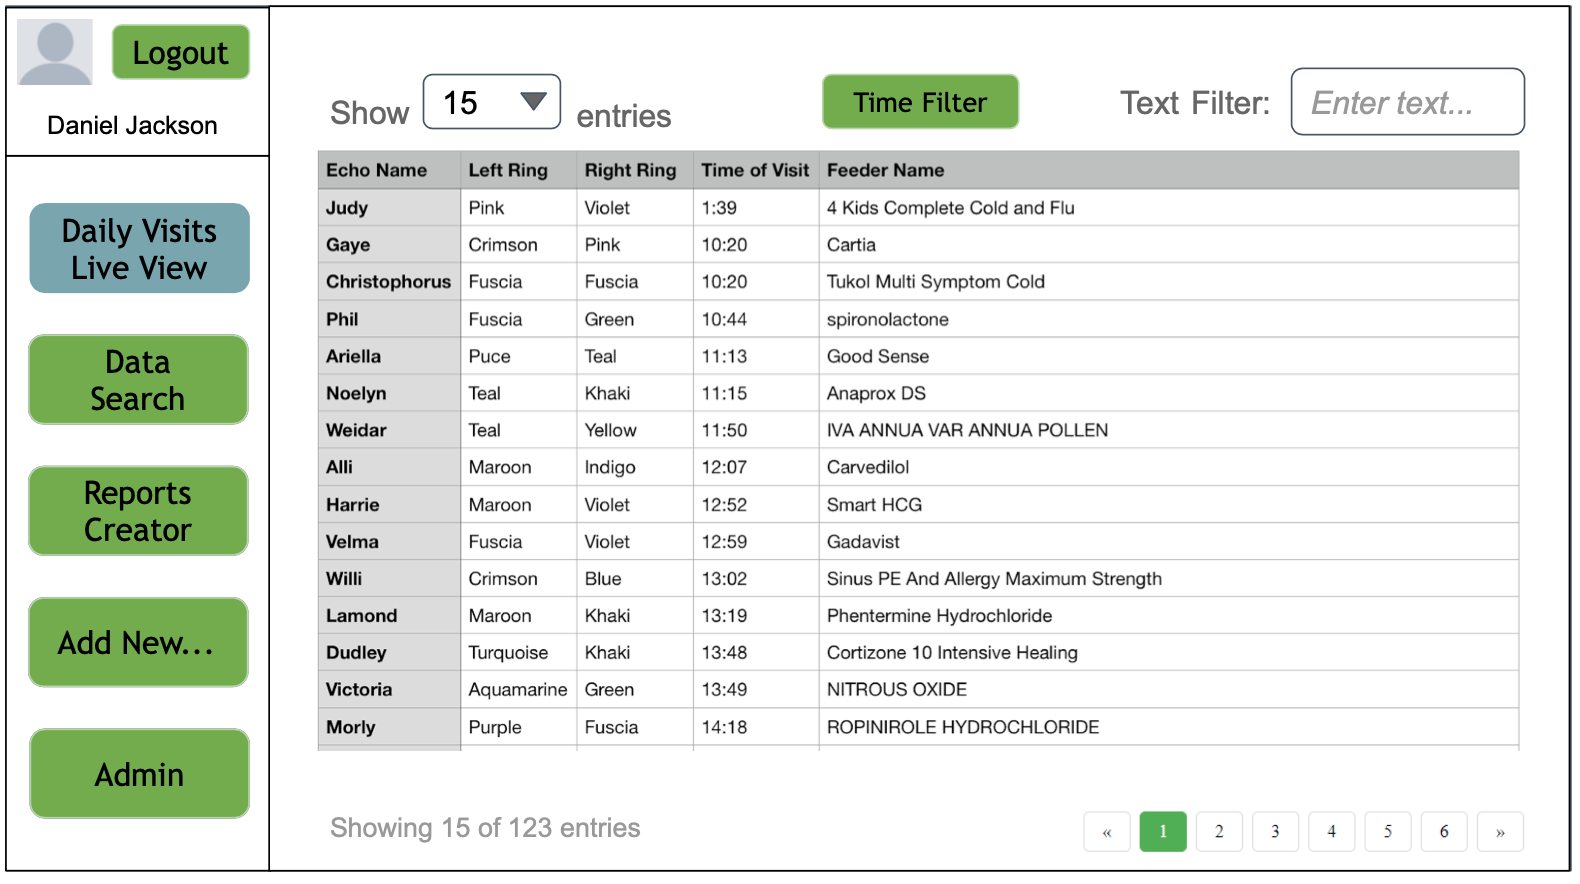
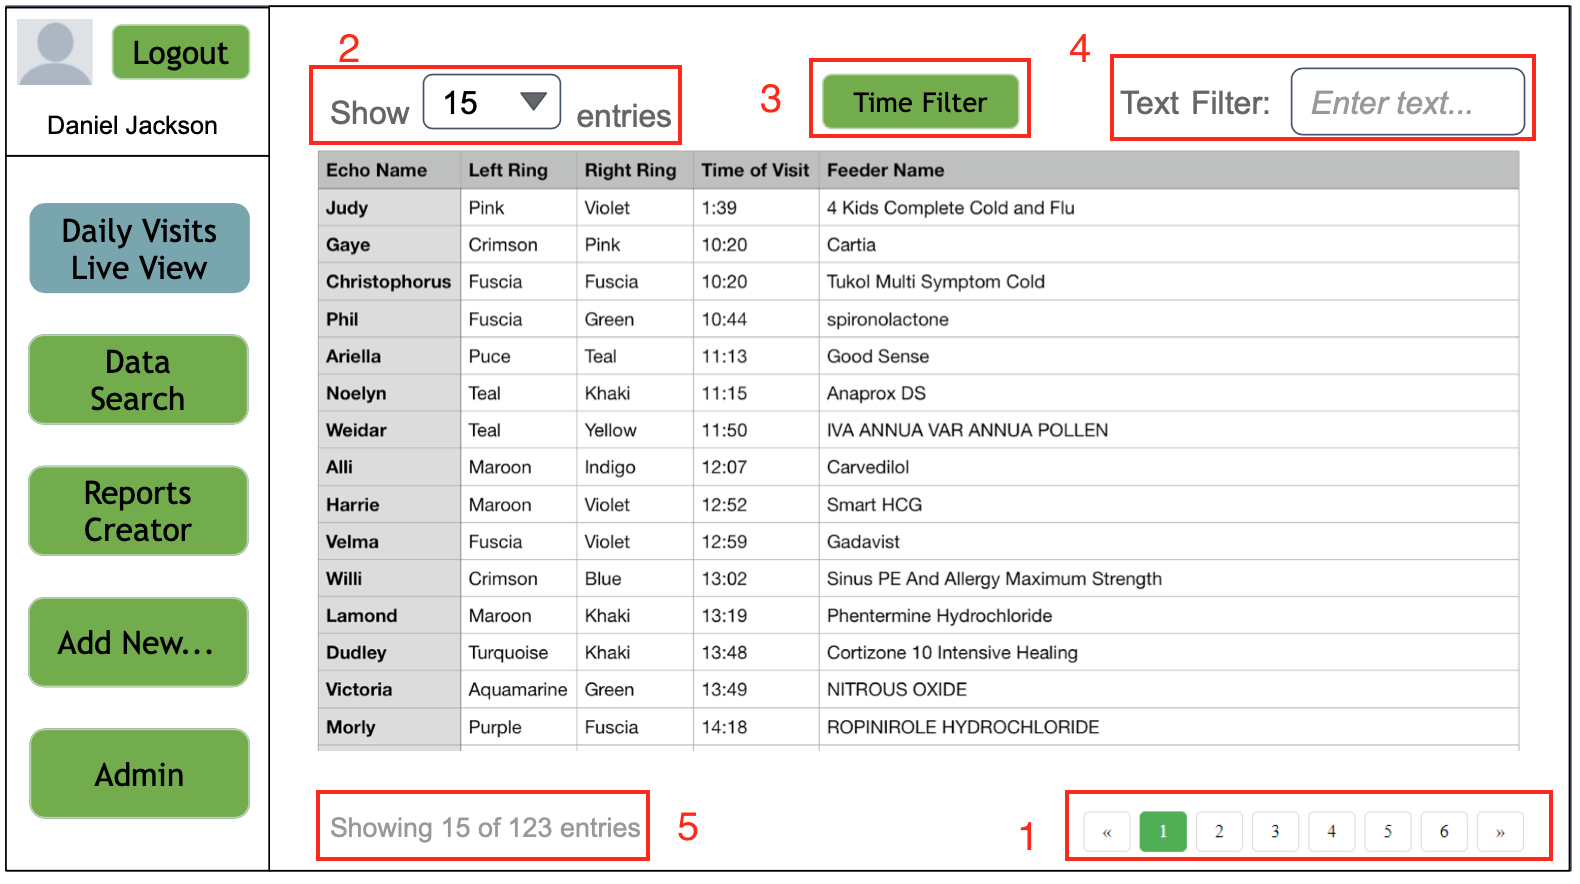
lofi

diff --git a/Corpus/index.html b/Corpus/index.html
@@ -753,13 +753,13 @@
         <p>Live View version 2 included number of user-friendly features that improved system’s usability. </p>
         <table id="lofitable1" border="0">
             <tr>
-                <td id='img'><img src="Phase4/lofiliveview3.png" width="400" height="200"></td>
+                <td id='img'><img src="Phase4/lofiliveview3.png" width="600" height="350"></td>
             </tr>
         </table>
         
         <ol>
         <li>Pagination was added into Live View. In previous version, information was displayed as a large list of entries which would be difficult to understand and oversee. </li>
-        <li>Enry number filter allowed users to restrict number of table entries displayed on screen.</li>
+        <li>Number of entries filter allowed users to restrict number of table entries displayed on screen.</li>
         <li>Time filter allowed to pick specific time of the day when birds are visiting feeders. </li>
         <li>Text filter allowed to search for specific bird by typing its name or ring information.</li>
         <li>Text label next to pagination bar allowed to see how many entries there are in total on the Live View. </li>
